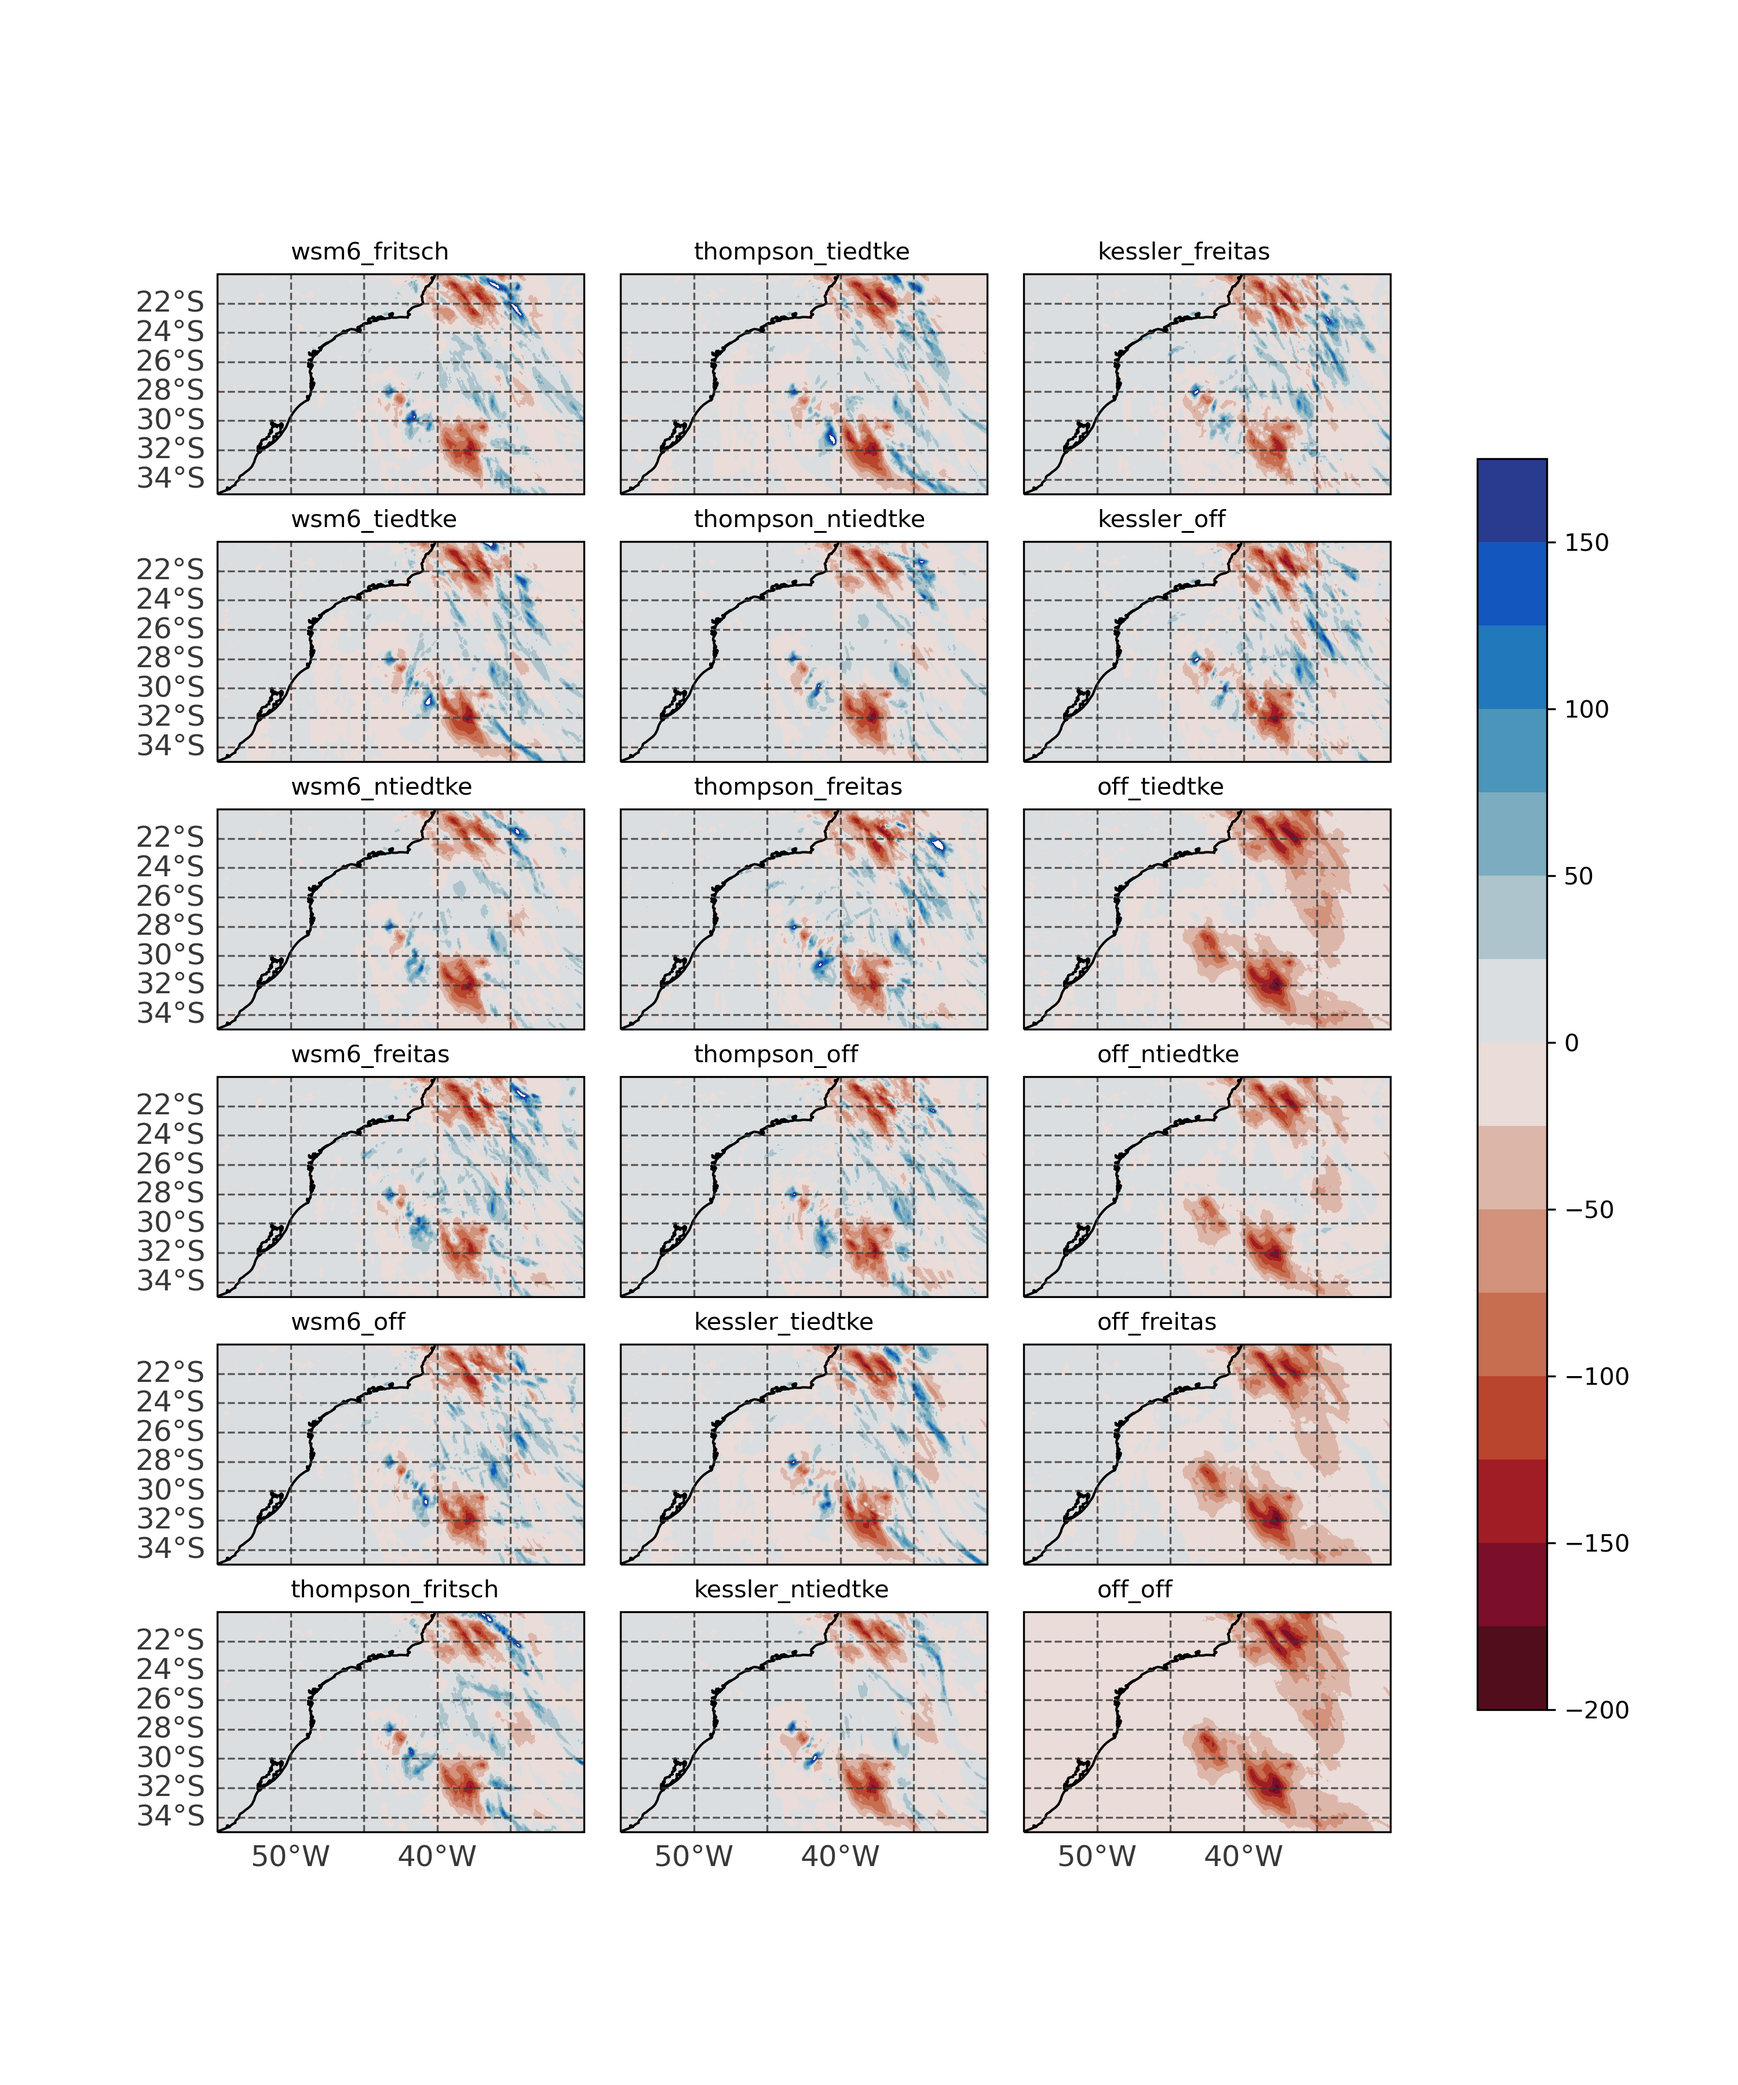
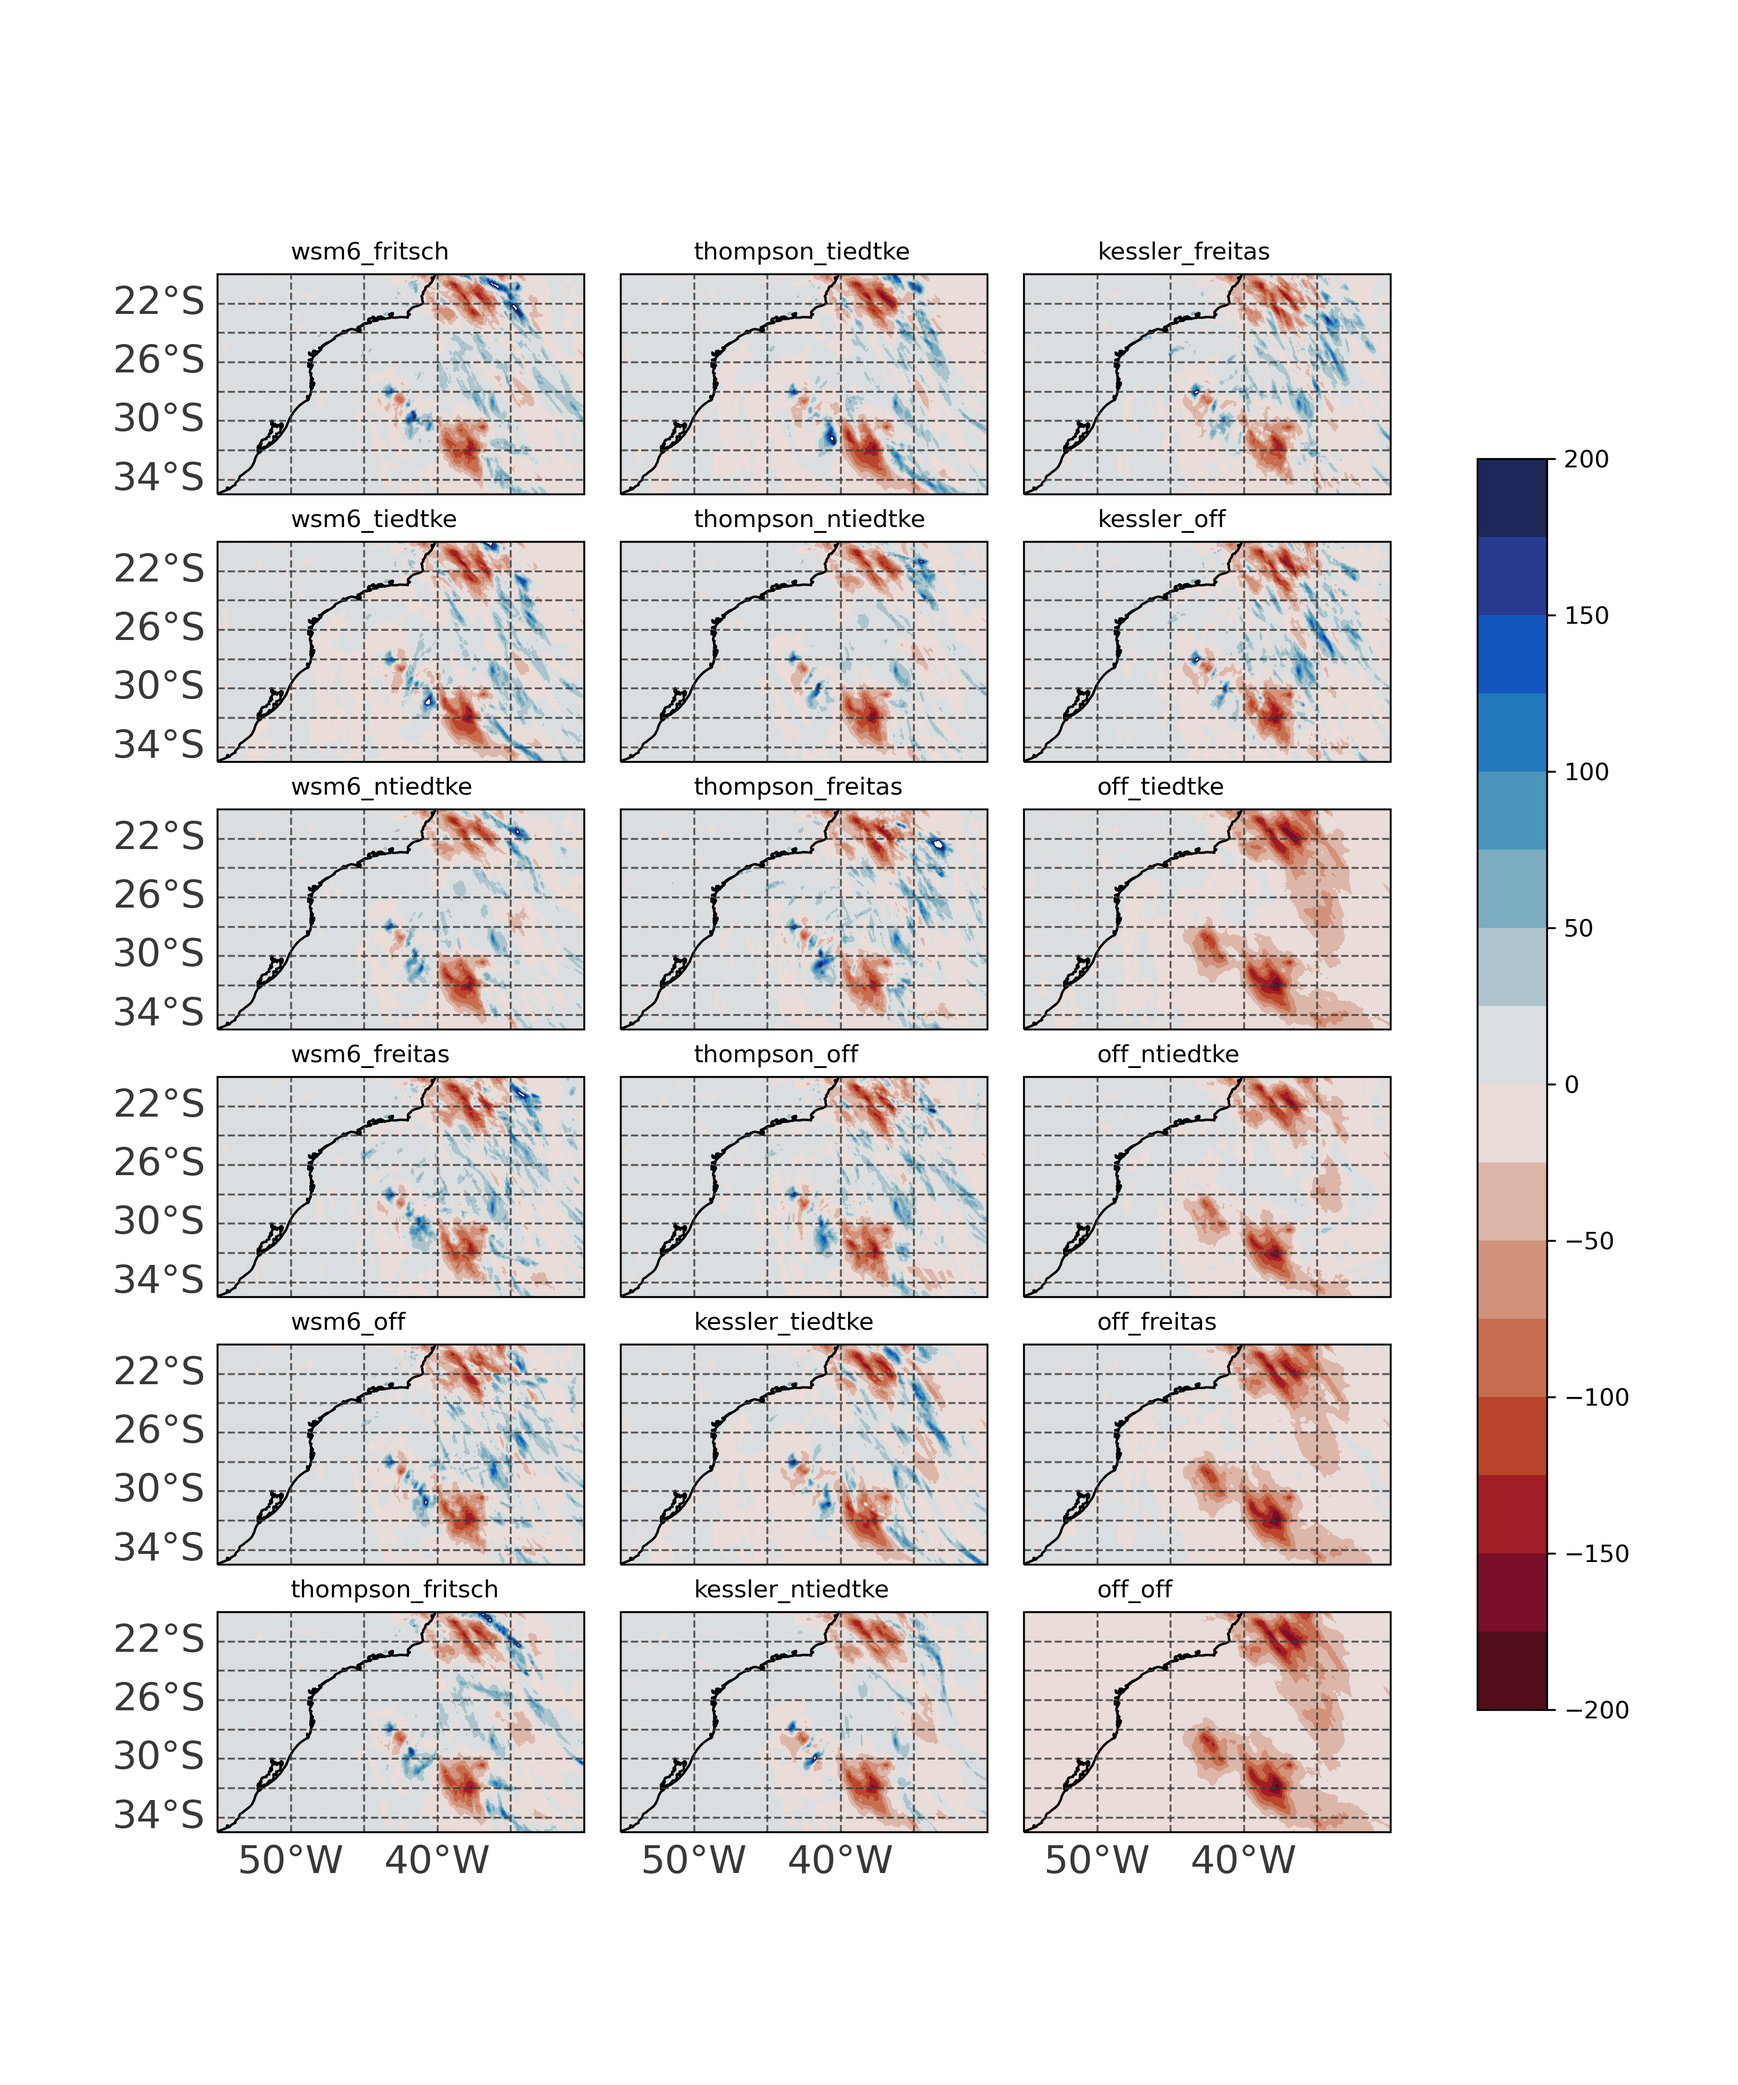
Updates: figures for workshop

diff --git a/figures_MPAS-worshop/precipitation.py b/figures_MPAS-worshop/precipitation.py
@@ -6,7 +6,7 @@
 #    By: Danilo <danilo.oceano@gmail.com>           +#+  +:+       +#+         #
 #                                                 +#+#+#+#+#+   +#+            #
 #    Created: 2023/06/20 11:48:29 by Danilo            #+#    #+#              #
-#    Updated: 2023/06/20 12:47:49 by Danilo           ###   ########.fr        #
+#    Updated: 2023/06/20 14:13:17 by Danilo           ###   ########.fr        #
 #                                                                              #
 # **************************************************************************** #
 
@@ -149,8 +149,8 @@ gs1 = gridspec.GridSpec(6, 3)
 gs2 = gridspec.GridSpec(6, 3)
 datacrs = ccrs.PlateCarree()
 
-prec_levels = np.arange(0,300,25)
-bias_levels = np.arange(-200,200,25)
+prec_levels = np.arange(0,375,25)
+bias_levels = np.arange(-200,225,25)
 bias_norm = colors.TwoSlopeNorm(vmin=-200, vcenter=0, vmax=200)
 
 i = 0
@@ -174,8 +174,8 @@ for col in range(ncol):
             ax.set_extent([-55, -30, -20, -35], crs=datacrs) 
             gl = ax.gridlines(draw_labels=True,zorder=2,linestyle='dashed',
                               alpha=0.8, color='#383838')
-            gl.xlabel_style = {'size': 12, 'color': '#383838'}
-            gl.ylabel_style = {'size': 12, 'color': '#383838'}
+            gl.xlabel_style = {'size': 16, 'color': '#383838'}
+            gl.ylabel_style = {'size': 16, 'color': '#383838'}
             gl.right_labels = None
             gl.top_labels = None
             if row != 5:
@@ -233,8 +233,8 @@ ax = fig.add_subplot(111, projection=datacrs,frameon=True)
 ax.set_extent([-55, -30, -20, -35], crs=datacrs) 
 gl = ax.gridlines(draw_labels=True,zorder=2,linestyle='dashed',
                   alpha=0.8, color='#383838')
-gl.xlabel_style = {'size': 12, 'color': '#383838'}
-gl.ylabel_style = {'size': 12, 'color': '#383838'}
+gl.xlabel_style = {'size': 16, 'color': '#383838'}
+gl.ylabel_style = {'size': 16, 'color': '#383838'}
 gl.right_labels = None
 gl.top_labels = None
 cf = ax.contourf(imerg_accprec.lon, imerg_accprec.lat,
